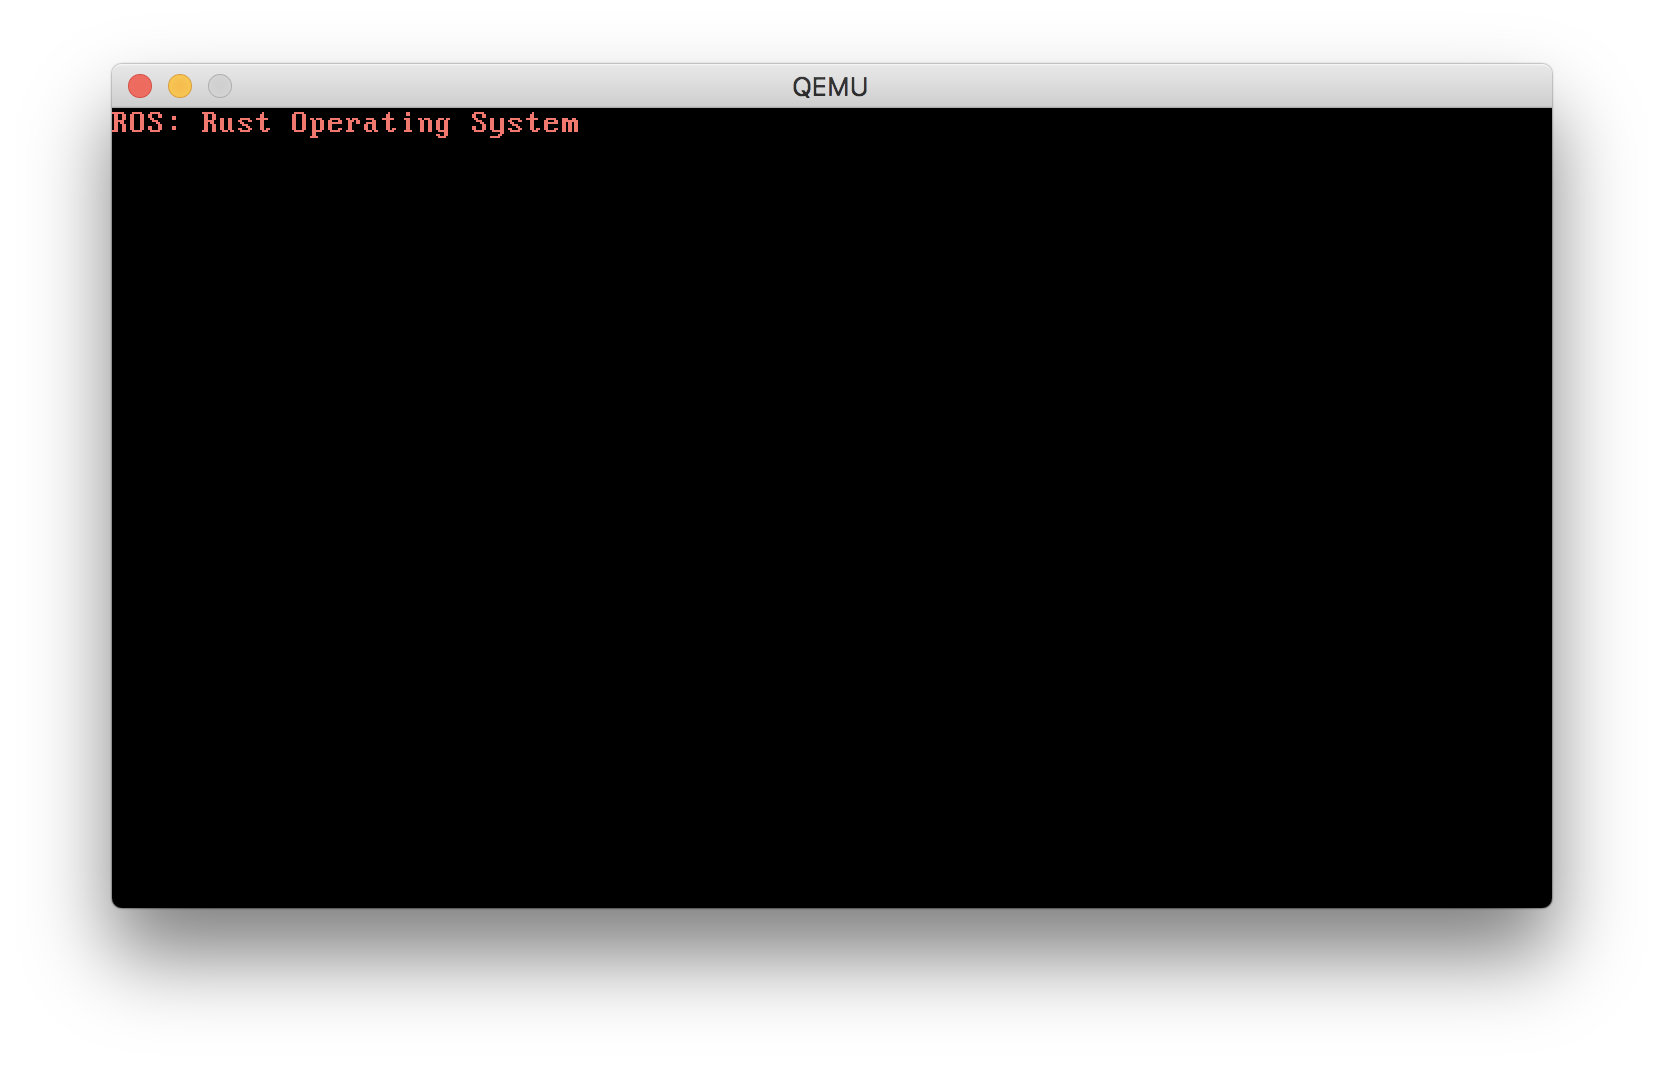
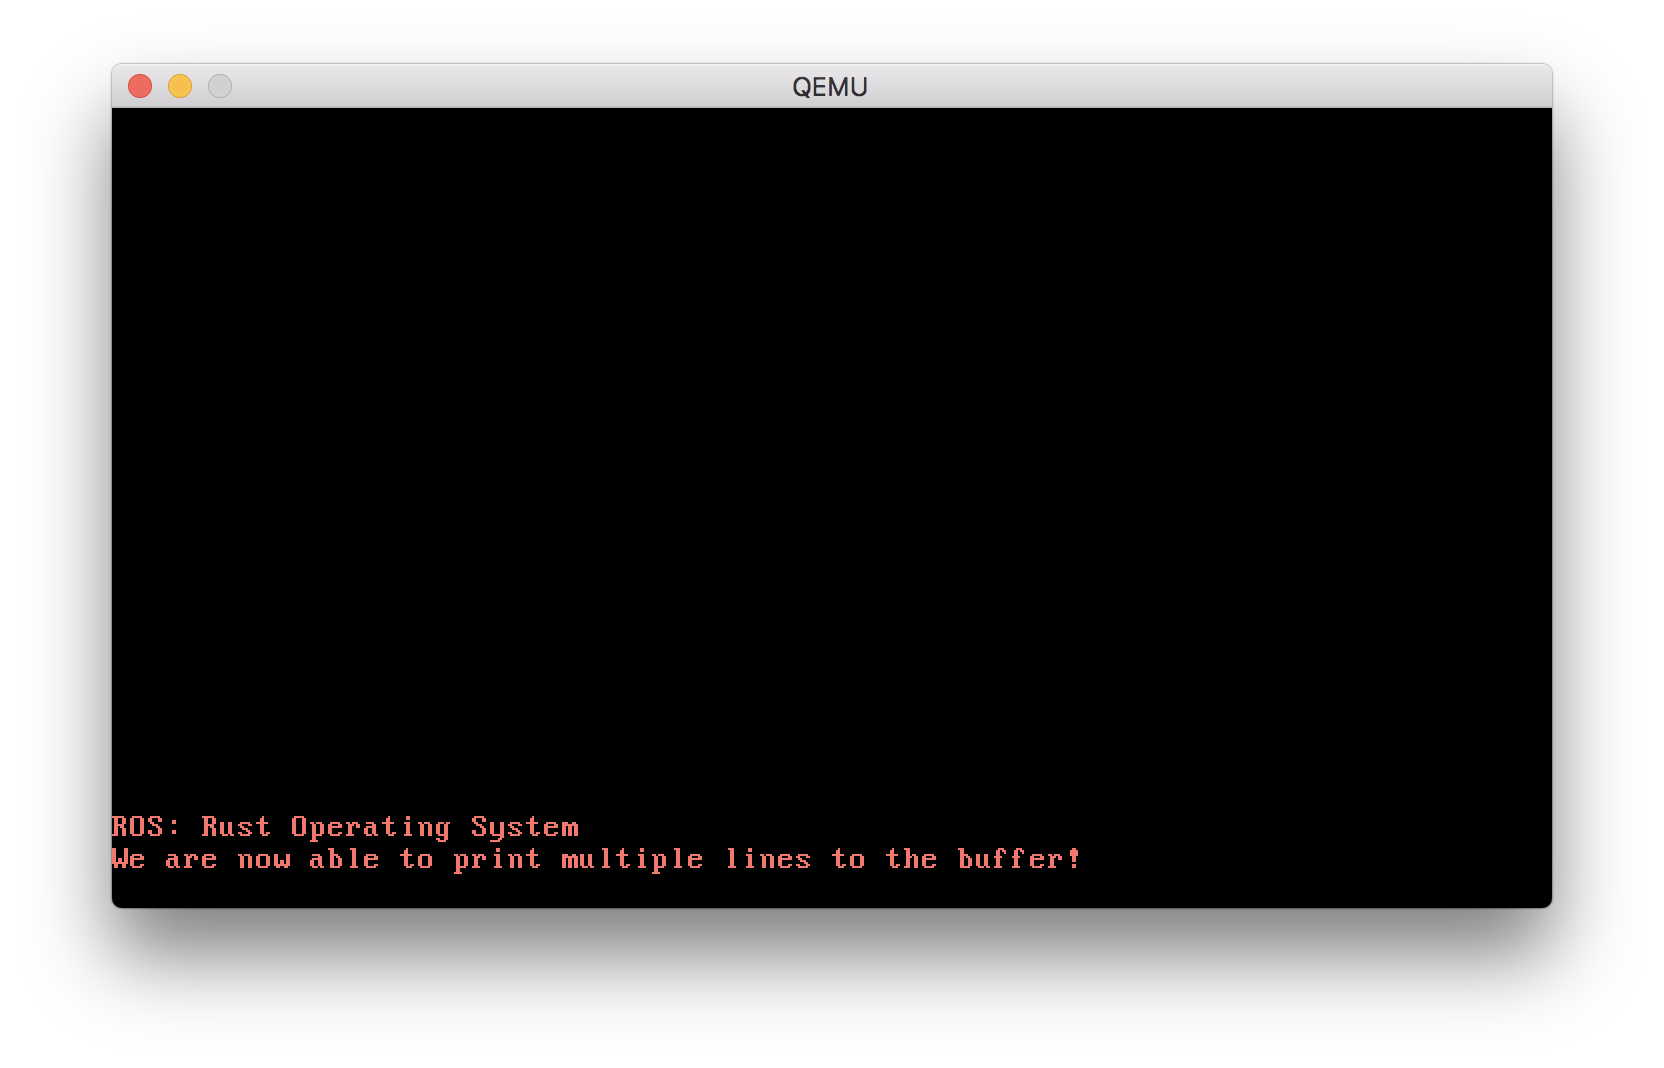
Add safe wrapper around the VGA buffer.
Also give us the ability to have nice `print!` and `println!` macros as
if we still had `std`, and the ability to have type-safe access to the
foreground and background colour masks we all so desire and printing
angry messages from a kernel.

diff --git a/src/vga_buffer.rs b/src/vga_buffer.rs
@@ -1,0 +1,161 @@
+use core::fmt;
+use spin::Mutex;
+use volatile::Volatile;
+
+/// Raw pointer to the VGA buffer start. The VGA buffer is available via memory
+/// mapped IO as `0xb8000`.
+const VGA_BUFFER_ADDR: usize = 0xb8000;
+
+/// The height of the VGA buffer.
+const BUFFER_HEIGHT: usize = 25;
+/// The width of the VGA buffer.
+const BUFFER_WIDTH: usize = 80;
+
+lazy_static! {
+    /// A static writer which will always write into the VGA buffer.
+    pub static ref WRITER: Mutex<Writer> = Mutex::new(Writer {
+        column_position: 0,
+        colour_code: ColourCode::new(Colour::LightRed, Colour::Black),
+        buffer: unsafe { &mut *(VGA_BUFFER_ADDR as *mut Buffer) },
+    });
+}
+
+/// Represents valid colour modifiers in the VGA buffer. Can be used for the
+/// foreground text and background colours within the buffer.
+#[allow(dead_code)]
+#[derive(Debug, Clone, Copy)]
+#[repr(u8)]
+pub enum Colour {
+    Black = 0,
+    Blue = 1,
+    Green = 2,
+    Cyan = 3,
+    Red = 4,
+    Magenta = 5,
+    Brown = 6,
+    LightGray = 7,
+    DarkGray = 8,
+    LightBlue = 9,
+    LightGreen = 10,
+    LightCyan = 11,
+    LightRed = 12,
+    Pink = 13,
+    Yellow = 14,
+    White = 15,
+}
+
+/// Represents the combination of the foreground and background colours.
+/// Represented as a u8 to apply as a mask on the actual ASCII character value
+/// to write as per the VGA spec.
+#[derive(Debug, Clone, Copy)]
+struct ColourCode(u8);
+
+impl ColourCode {
+    const fn new(foreground: Colour, background: Colour) -> ColourCode {
+        ColourCode((background as u8) << 4 | (foreground as u8))
+    }
+}
+
+/// Represents the combination of a valid ASCII only character and a mask of
+/// foreground and background colours to apply to this specific char.
+#[derive(Debug, Clone, Copy)]
+#[repr(C)]
+struct ScreenChar {
+    ascii_character: u8,
+    colour_code: ColourCode,
+}
+
+/// A buffer of characters masked with foreground and background colours.
+/// Represented as a fixed size slice of BUFFER_WIDTH × BUFFER_HEIGHT.
+struct Buffer {
+    chars: [[Volatile<ScreenChar>; BUFFER_WIDTH]; BUFFER_HEIGHT],
+}
+
+/// Wraps functionality for writing to and clearing a buffer.
+pub struct Writer {
+    column_position: usize,
+    colour_code: ColourCode,
+    buffer: &'static mut Buffer,
+}
+
+impl Writer {
+    /// Write a single byte character to the buffer. Must be a valid ASCII
+    /// character, as the buffer (being backed by VGA) does not allow multi-byte
+    /// UTF-8 characters.
+    pub fn write_byte(&mut self, byte: u8) {
+        match byte {
+            b'\n' => self.new_line(),
+            byte => {
+                if self.column_position >= BUFFER_WIDTH {
+                    self.new_line();
+                }
+
+                let row = BUFFER_HEIGHT - 1;
+                let col = self.column_position;
+
+                let colour_code = self.colour_code;
+                self.buffer.chars[row][col].write(ScreenChar {
+                    ascii_character: byte,
+                    colour_code: colour_code,
+                });
+                self.column_position += 1;
+            }
+        }
+    }
+
+    /// Write a complete string character by character into the buffer.
+    pub fn write_string(&mut self, s: &str) {
+        for byte in s.bytes() {
+            self.write_byte(byte)
+        }
+    }
+
+    // Write a new line, moving the position of the buffer to the start of the
+    /// next row.
+    fn new_line(&mut self) {
+        for row in 1..BUFFER_HEIGHT {
+            for col in 0..BUFFER_WIDTH {
+                let character = self.buffer.chars[row][col].read();
+                self.buffer.chars[row - 1][col].write(character);
+            }
+        }
+        self.clear_row(BUFFER_HEIGHT-1);
+        self.column_position = 0;
+    }
+
+    /// Clear the contents of the current row in the buffer.
+    fn clear_row(&mut self, row: usize) {
+        let blank = ScreenChar {
+            ascii_character: b' ',
+            colour_code: self.colour_code,
+        };
+        for col in 0..BUFFER_WIDTH {
+            self.buffer.chars[row][col].write(blank);
+        }
+    }
+}
+
+impl fmt::Write for Writer {
+    fn write_str(&mut self, s: &str) -> fmt::Result {
+        self.write_string(s);
+        Ok(())
+    }
+}
+
+// Below we reimplement the `print` and `println` macros that would normally
+// be provided by the `std` crate but would print to `stdout` / `stderr` which
+// of course is not a luxury in our kernel based world!
+
+macro_rules! println {
+    ($fmt:expr) => (print!(concat!($fmt, "\n")));
+    ($fmt:expr, $($arg:tt)*) => (print!(concat!($fmt, "\n"), $($arg)*));
+}
+
+macro_rules! print {
+    ($($arg:tt)*) => ($crate::vga_buffer::print(format_args!($($arg)*)));
+}
+
+pub fn print(args: fmt::Arguments) {
+    use core::fmt::Write;
+    WRITER.lock().write_fmt(args).unwrap();
+}

diff --git a/src/main.rs b/src/main.rs
@@ -1,29 +1,36 @@
+#![feature(const_fn)]
 #![feature(lang_items)]
 #![no_main]
 #![no_std]
+
+// Enables us to work around the fact that that Rust's const evaluator is not
+// able to convert raw pointers to references at compile time.
+#[macro_use]
+extern crate lazy_static;
 
 // Prevent linker faults because functions normally provided by libc aren't
 // there. LLVM lowers some intrinsics which will now keep working happily.
 extern crate rlibc;
 
-/// Raw pointer to the VGA buffer start. The VGA buffer is available via memory
-/// mapped IO as `0xb8000`.
-/// See more about raw pointers at
-/// https://doc.rust-lang.org/stable/book/second-edition/ch19-01-unsafe-rust.html#dereferencing-a-raw-pointer
-const VGA_BUFFER_ADDR: *mut u8 = 0xb8000 as *mut u8;
-static BOOT_MESSAGE: &[u8] = b"ROS: Rust Operating System";
+// Gives us spinlocks, where we basically spin the CPU until the lock is free.
+// Why this and not a Mutex or something? Because we're in an OS so we have
+// no threads or even the concept of blocking!
+extern crate spin;
 
-static COLOUR_LIGHT_GREEN: u8 = 0xc;
+// Allows us to mark regions as volatile and therefore off limits for
+// optimisation.
+extern crate volatile;
+
+#[macro_use]
+mod vga_buffer;
+
+static BOOT_MESSAGE: &str = "ROS: Rust Operating System";
 
 /// Initial entrypoint for kernel.
 #[no_mangle]
 pub extern fn _start() -> ! {
-    for (i, &byte) in BOOT_MESSAGE.iter().enumerate() {
-        unsafe {
-            *VGA_BUFFER_ADDR.offset(i as isize * 2) = byte;
-            *VGA_BUFFER_ADDR.offset(i as isize * 2 + 1) = COLOUR_LIGHT_GREEN;
-        }
-    }
+    println!("{}", BOOT_MESSAGE);
+    println!("We are now able to print multiple lines to the buffer!");
 
     loop {}
 }
